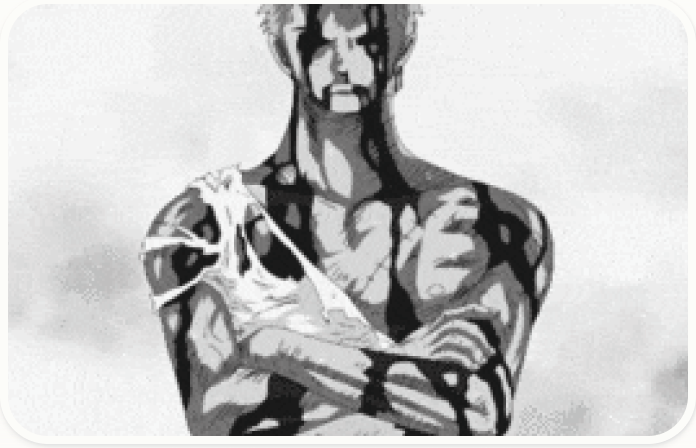
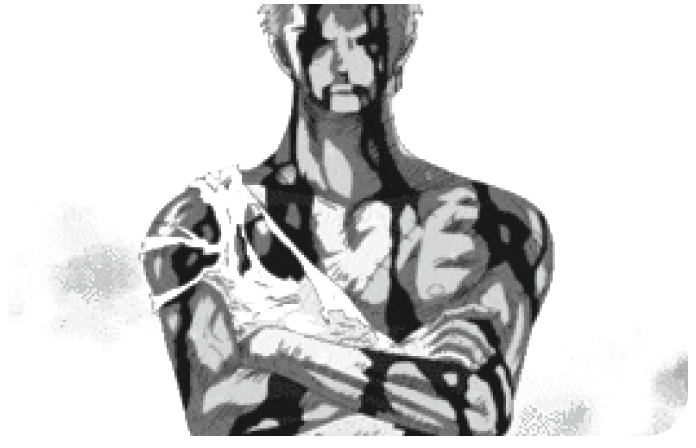
Scroll the footer with the page, and clear the card's ground properly
Footer
- Reverts the pinned-to-viewport treatment. The footer is a normal section
  in the scrolling stack again, at its Figma y of 6578, and the page is
  back to the frame's full 7305px rather than the 7290 the reveal pattern
  produced. The backdrop and gradient panel stay page-level siblings, since
  both bleed past the 1905 frame to the window edge.

Footer image card
- Multiply was not enough: the baked ground is rgb(248,248,245), close
  enough to the backdrop that multiplying still painted a visible panel.
  The ground is now removed from the bitmap by flood-filling inward from
  the border. A flat colour key would have taken the drawing's interior
  whites with it — it is black line art — whereas the fill only reaches
  pixels connected to the edge. 56.7% of the image cleared, all 38,260
  linework pixels kept, and every corner and edge midpoint at alpha 0.

diff --git a/src/app/page.tsx b/src/app/page.tsx
@@ -22,17 +22,46 @@ import { canvasSurface } from "@/lib/canvas";
  * the 1808-wide sections sit at x=49, where centring would put them at 48 —
  * so each section carries its explicit Figma left offset instead.
  *
- * "image 163" (5854:49627) is a sibling of that wrapper, not a child of the
- * footer, and is painted behind everything at y=6593 — hence the absolute
- * placement below rather than inside <Footer />.
+ * The footer scrolls with the page like every other section. Its backdrop
+ * ("image 163", 5854:49627) is a sibling of the section wrapper rather than a
+ * child of the footer, painted behind everything at y=6593, so it and the
+ * gradient panel above it are placed here instead of inside <Footer />. Both
+ * bleed to the window edge, which is why the overlay is measured from the
+ * page rather than confined to the 1905-wide frame.
  */
 export default function Home() {
   return (
-    <main className="relative mx-auto w-[1904px]">
+    <main
+      className="relative mx-auto h-[7305px] w-[1904px]"
+      style={canvasSurface}
+    >
+      {/* 5854:49627 — page-level backdrop, behind the section stack */}
+      <Image
+        src="/images/footer/footer-bg.png"
+        alt=""
+        width={3808}
+        height={1424}
+        className="absolute left-1/2 top-[6593px] h-[712px] w-screen min-w-[1904px] max-w-none -translate-x-1/2 object-cover"
+      />
+
+      {/*
+        5854:51581 — the gradient that fades the backdrop in behind the footer
+        copy. Figma nests it in the footer frame, but the backdrop it covers is
+        the page-level image above, which bleeds to the window edge. Kept
+        inside the 1905-wide frame it left the image bare down both sides and
+        across the bottom 15px, so it is bled to match. Geometry is Figma's: it
+        starts at the footer's own top (6578) and runs its full 794px.
+      */}
       <div
-        className="relative z-10 flex flex-col items-start gap-[120px] pb-[120px]"
-        style={canvasSurface}
-      >
+        aria-hidden
+        className="absolute left-1/2 top-[6578px] h-[794px] w-screen min-w-[1904px] -translate-x-1/2"
+        style={{
+          backgroundImage:
+            "linear-gradient(180deg, #FDFCF9 0%, rgba(253,251,249,0.5) 47.4%, rgba(253,251,249,0) 100%)",
+        }}
+      />
+
+      <div className="relative flex flex-col items-start gap-[120px]">
         <Hero />
         <div className="ml-[49px]">
           <Bio />
@@ -46,37 +75,7 @@ export default function Home() {
         <div className="ml-[399px]">
           <Testimonials />
         </div>
-      </div>
-      {/* Uncovers the fixed footer at the end of the scroll. */}
-      <div className="h-[712px]" aria-hidden />
-
-      {/*
-        The footer is pinned to the bottom of the viewport and the rest of the
-        page scrolls over it, so it is revealed rather than scrolled through.
-        Its backdrop ("image 163", 5854:49627) and the gradient panel
-        (5854:51581) travel with it — all three are one fixed layer at z-0,
-        behind the scrolling stack, which carries its own canvas background.
-        The 712px spacer at the end of the stack is what uncovers it.
-      */}
-      <div className="pointer-events-none fixed inset-x-0 bottom-0 z-0 h-[712px]">
-        <Image
-          src="/images/footer/footer-bg.png"
-          alt=""
-          width={3808}
-          height={1424}
-          className="absolute left-1/2 top-0 h-[712px] w-screen min-w-[1904px] max-w-none -translate-x-1/2 object-cover"
-        />
-        <div
-          aria-hidden
-          className="absolute left-1/2 top-[-15px] h-[794px] w-screen min-w-[1904px] -translate-x-1/2"
-          style={{
-            backgroundImage:
-              "linear-gradient(180deg, #FDFCF9 0%, rgba(253,251,249,0.5) 47.4%, rgba(253,251,249,0) 100%)",
-          }}
-        />
-        <div className="pointer-events-auto absolute left-1/2 top-0 -translate-x-1/2">
-          <Footer />
-        </div>
+        <Footer />
       </div>
     </main>
   );

diff --git a/src/components/sections/Footer.tsx b/src/components/sections/Footer.tsx
@@ -26,17 +26,23 @@ export function Footer() {
       id="contact"
       className="relative h-[712px] w-[1905px]"
     >
-      {/* 5854:51585 — image card above the copy, 348x224 at (400,166).
-          Figma's export covered the render bounds and baked the 4px shadow
-          spill as opaque canvas colour, which showed as a pale rectangle over
-          the artwork behind. The spill is cropped off, so this is the node's
-          own box and sits at its true Figma coordinate. */}
+      {/*
+        5854:51585 — image card above the copy, 348x224 at (400,166).
+        Figma's export covered the render bounds and baked the 4px shadow
+        spill as opaque canvas colour, so the spill is cropped off and this is
+        the node's own box on its true coordinate.
+        The ground was baked into the source bitmap too (rgb(248,248,245)) and
+        has been flood-filled to transparent from the border inwards. A plain
+        colour key would have removed the drawing's interior whites as well,
+        since it is black line art; the fill only reaches what connects to the
+        edge, so the linework is untouched.
+      */}
       <Image
         src="/images/footer/connect-card.png"
         alt=""
         width={696}
         height={448}
-        className="absolute left-[400px] top-[166px] h-[224px] w-[348px] max-w-none mix-blend-multiply"
+        className="absolute left-[400px] top-[166px] h-[224px] w-[348px] max-w-none"
       />
 
       {/* 5854:51588 — email line at (400,406); copy control at (938,412) */}
